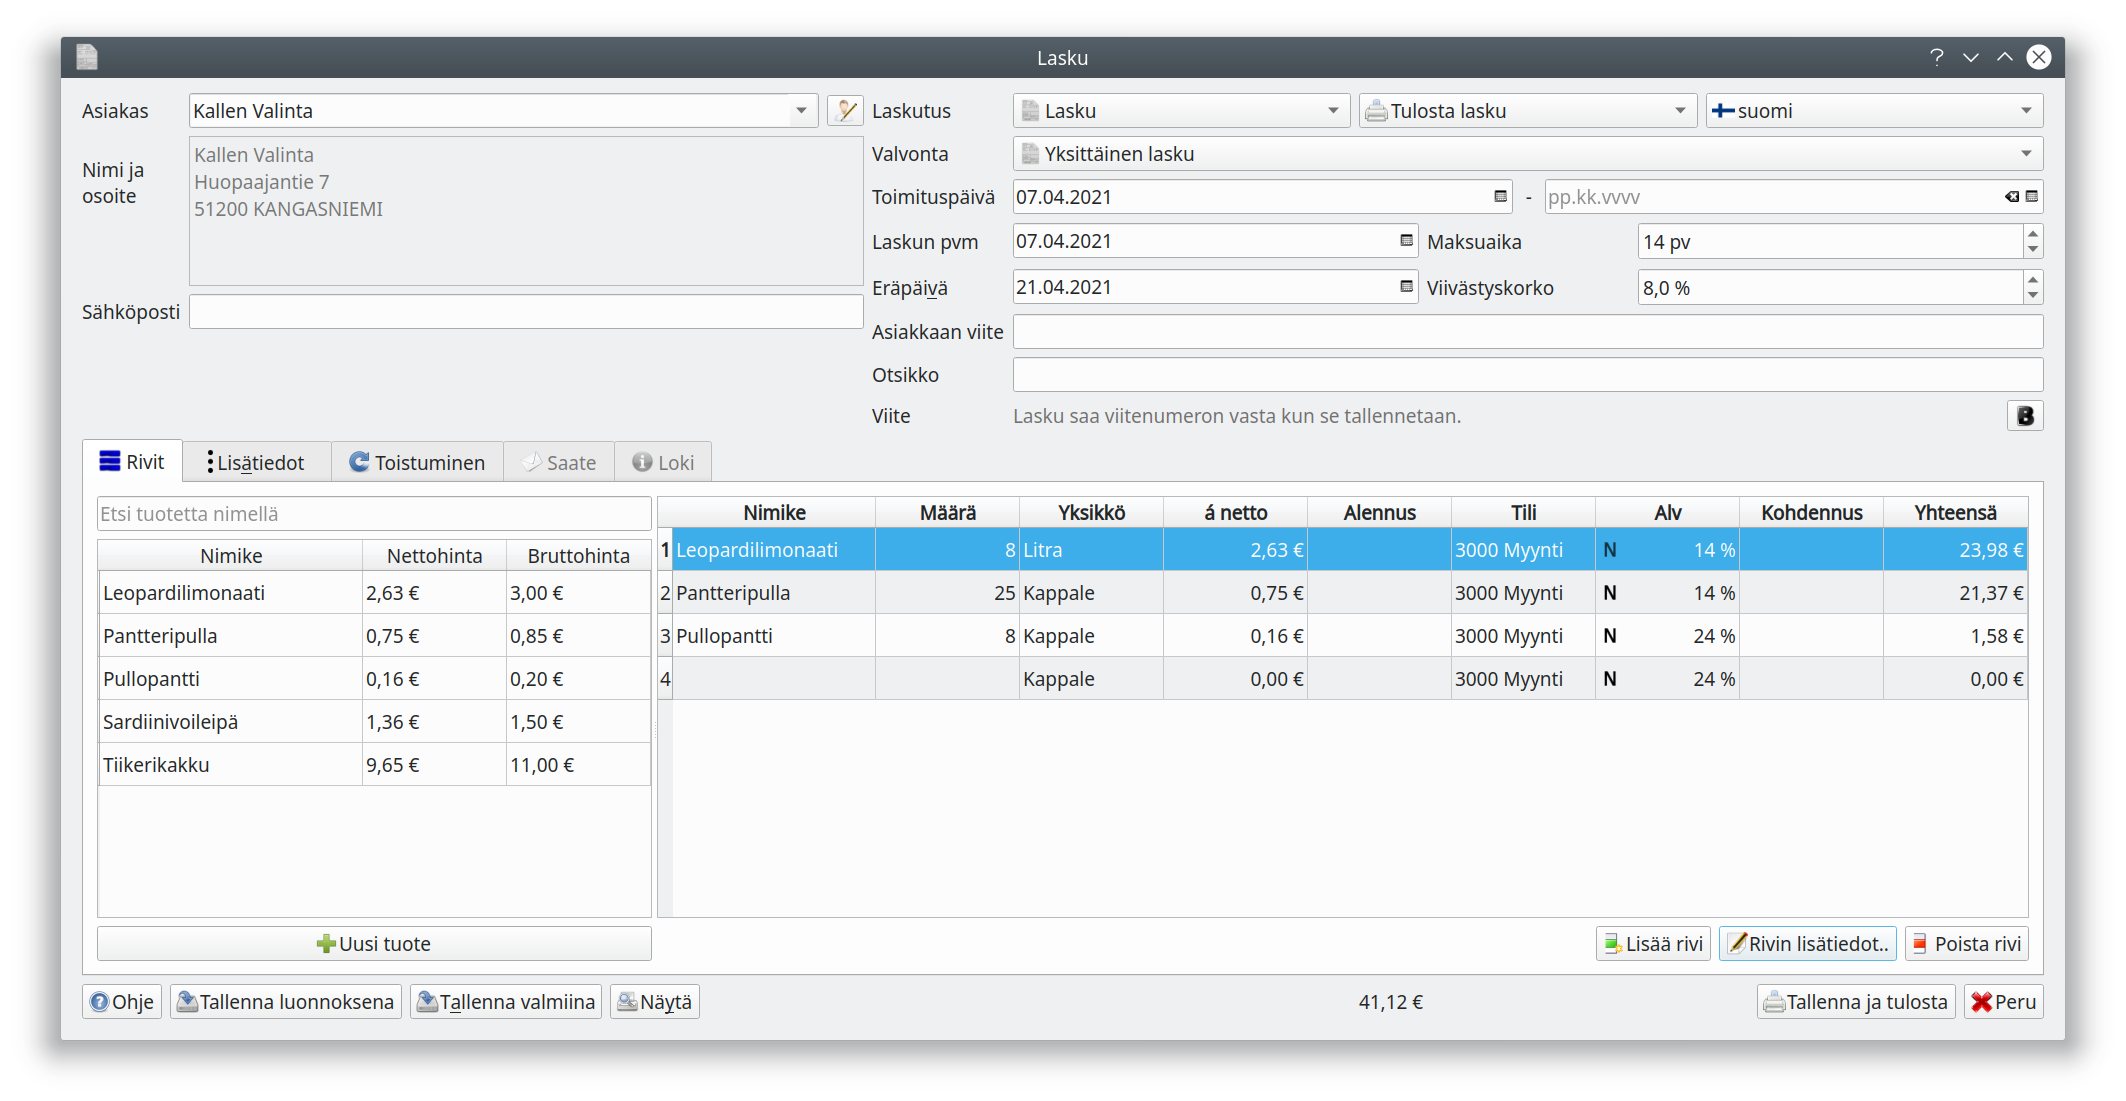
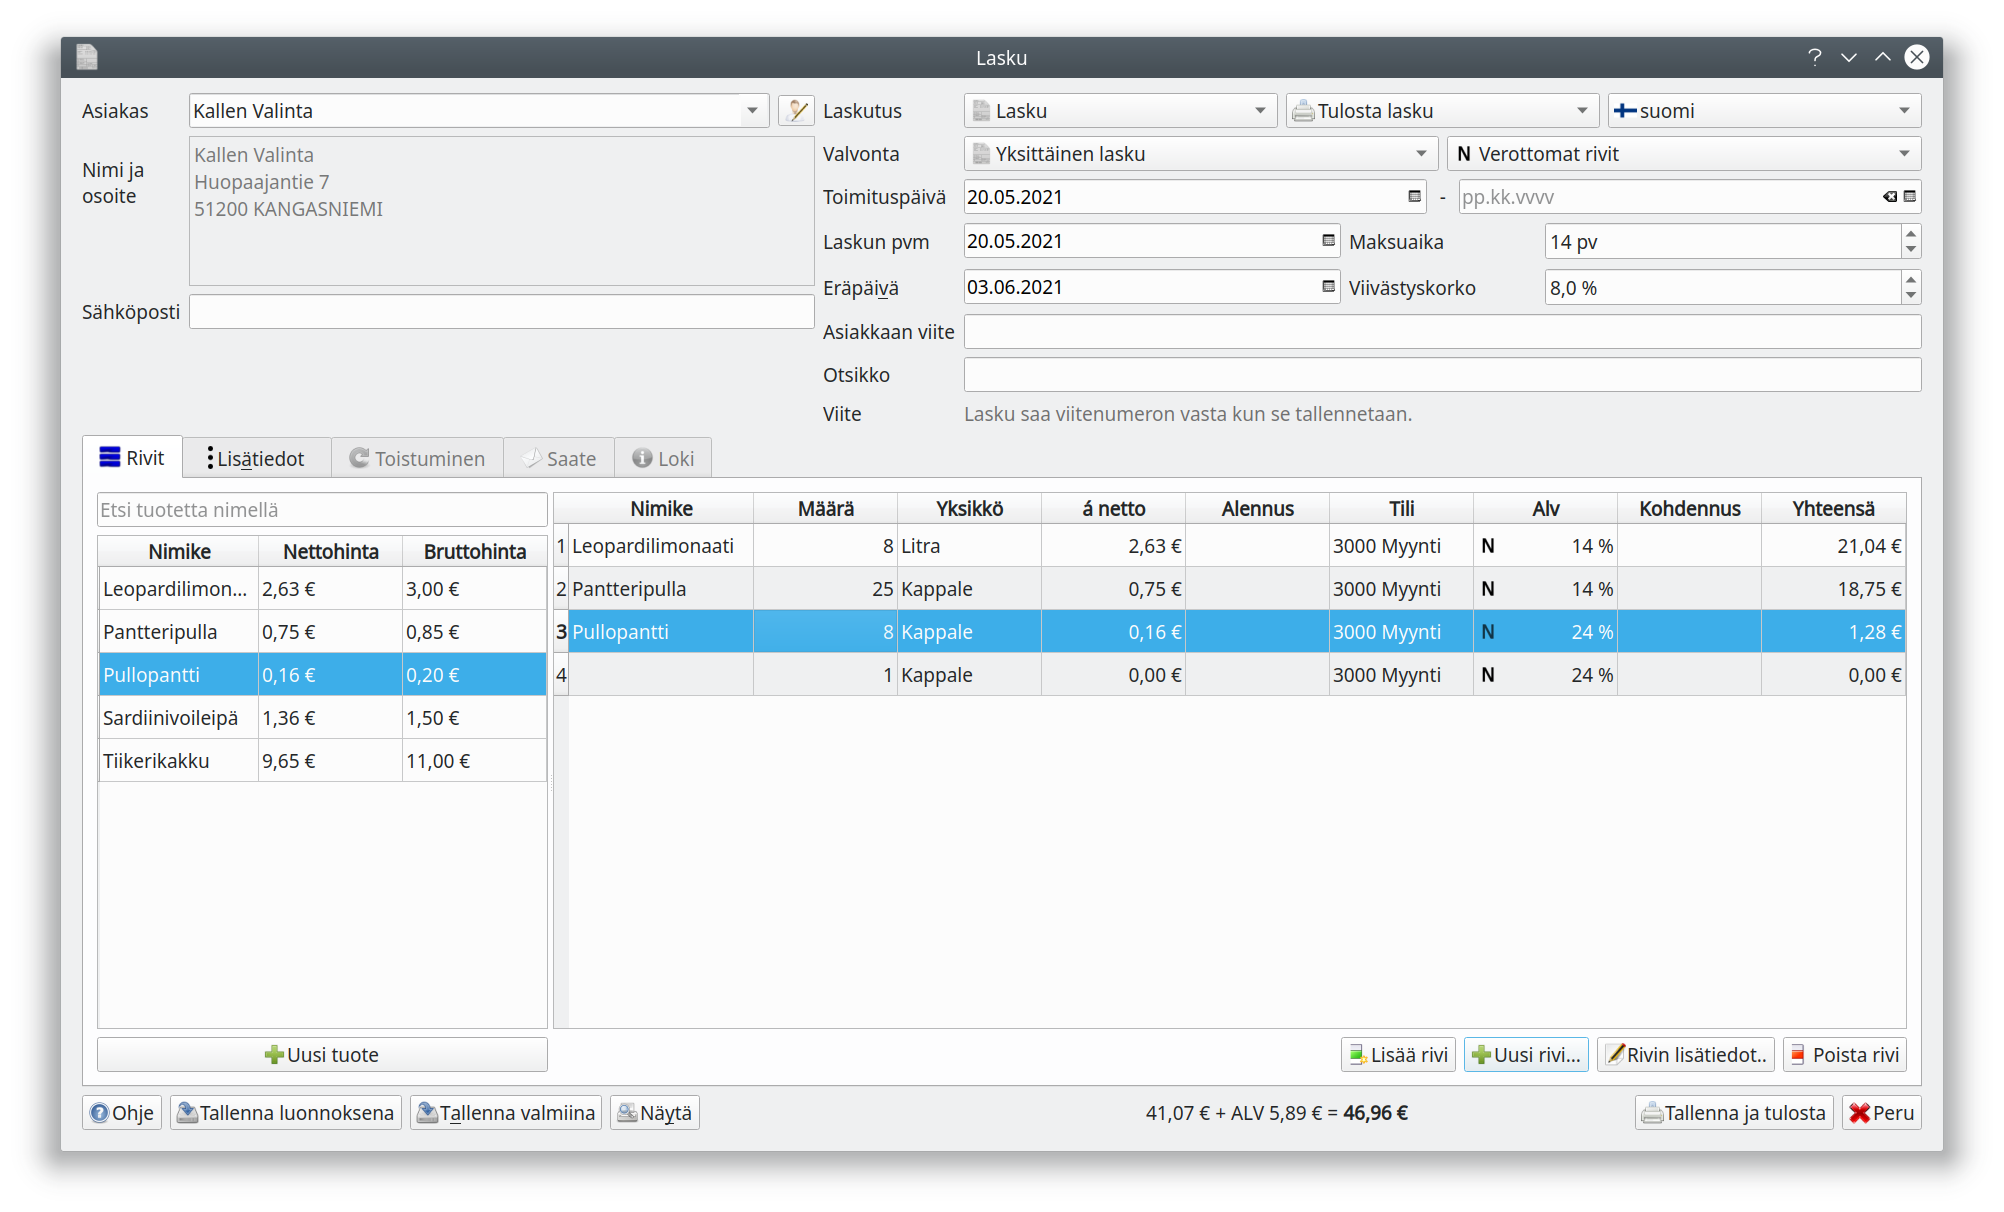
Ohjeiden tarkastaminen

diff --git a/layouts/blog/single.html b/layouts/blog/single.html
@@ -1,0 +1,3 @@
+{{ define "main" }}
+{{ .Render "content" }}
+{{ end }}

diff --git a/content/fi/docs/kirjaus/menotulo/yksityiskohdat.md b/content/fi/docs/kirjaus/menotulo/yksityiskohdat.md
@@ -4,6 +4,7 @@ linkTitle: "Yksityiskohtaiset ohjeet"
 weight: 90
 description: >
   Menojen ja tulokirjausten näkymän kentät yksityiskohtaisemmin selostettuina
+keywords: ["kohdennus", "jaksotus"]
 ---
 
 #### Asiakas / Toimittaja
@@ -29,7 +30,7 @@ Voit valita tilin kirjoittamalla tilin numeron (tai osan siitä). Vaihtoehtoises
 
 ![](/img/fi/kirjaus/menotulo/alv.png)
 
-Käytössä olevat alv-lajit on esitelty kappaleessa [Arvonlisäverolajit](../../alv/#arvonlisaverolajit)
+Käytössä olevat alv-lajit on esitelty kappaleessa [Arvonlisäverolajit]({{<relref "../../alv/alvlajit">}})
 Verollisessa kirjauksessa voit syöttää kokonaismäärän (brutto) tai verottoman määrän (netto).
 
 #### Jaksotus
@@ -40,7 +41,7 @@ Jaksotuksella voit tehdä kirjauksia, jotka kuuluu jaksottaa tilinpäätöksen y
 
 Jaksotustoiminnolla jaksotetaan vain veroton tulo tai meno, ei arvonlisäveron osuutta.
 
-!!! note "Esimerkkitilanteita, kun tilikausi on kalenterivuosi" - Jäsen maksaa vuoden 2020 jäsenmaksun 10.11.2019. - Yhdistykselle on myönnetty avustusta 1.11.2019 järjestettyyn tapahtumaan. Avustus maksetaan 7.1.2020. - Ohjelmistoyritys laskuttaa 15.9.2019 ohjelmiston ylläpitomaksun kaudelle 1.7.2019 - 30.6.2020. - Kirjausesimerkkejä jaksotuksesta [Tilinpäätös-osan jaksotusohjeessa](../../tilinpaatos/jaksotukset)
+!!! note "Esimerkkitilanteita, kun tilikausi on kalenterivuosi" - Jäsen maksaa vuoden 2020 jäsenmaksun 10.11.2019. - Yhdistykselle on myönnetty avustusta 1.11.2019 järjestettyyn tapahtumaan. Avustus maksetaan 7.1.2020. - Ohjelmistoyritys laskuttaa 15.9.2019 ohjelmiston ylläpitomaksun kaudelle 1.7.2019 - 30.6.2020. - Kirjausesimerkkejä jaksotuksesta [Tilinpäätös-osan jaksotusohjeessa]({{<relref "../../tilikaudet/tilinpaatos/jaksotukset">}})
 
 #### Kohdennukset
 

diff --git a/content/fi/docs/kirjaus/menotulo/menot.md b/content/fi/docs/kirjaus/menotulo/menot.md
@@ -1,5 +1,5 @@
 ---
-title: "Menokirjausten maksutavat"
+title: "Menojen kirjaaminen"
 linkTitle: "Menot"
 keywords: ["maksutavat"]
 weight: 10
@@ -7,6 +7,8 @@ keywords:
 description: >
   Maksutavalla määrittelet, miten meno on maksettu.
 ---
+
+![Menojen kirjausnäkymä](/img/fi/kirjaus/menotulo/menoosa.png)
 
 - **Meno**-tositetyypille kirjataan ostolaskut, suoritetut maksut, annetut avustukset jne.
 - **Kululaskuja** ovat työntekijän tai yhdistyksen jäsenen organisaation puolesta omista varoistaan suorittamat kulut, jotka hän sitten kululaskua ja tositteita vastaan perii maksettavaksi.
@@ -33,3 +35,7 @@ Maksutapavalinta määrittelee, mitä vastatiliä kirjauksessa käytetään. Ain
 | Hyvityslasku      | Aiemmasta laskusta kirjattava hyvitys. Valitse kohdassa **Tase-erä** aiemman laskut tiedot ja kirjaa hyvitys miinusmerkkisenä. |  Hyvityslaskun päivämäärä           |
 | Siirtovelka       | Käytetään, kun meno jää tilinpäätöksessä siirtovelkoihin.                                                                      | Toimituspäivä                       |
 | Kaikki vastatilit | Valitse vastatili ja tarvittaessa erä kaikkien tilien luettelosta.                                                             |
+
+#### Menotili
+
+Menotiliksi valitaan aiheenmukainen kirjanpitotili, esimerkiksi Ostot, Rahaliikenteen kulut tai Korkomenot.

diff --git a/content/fi/docs/kirjaus/menotulo/tulot.md b/content/fi/docs/kirjaus/menotulo/tulot.md
@@ -1,5 +1,5 @@
 ---
-title: "Tulokirjausten maksutavat"
+title: "Tulojen kirjaaminen"
 linkTitle: "Tulot"
 keywords: ["maksutavat"]
 weight: 20
@@ -7,6 +7,8 @@ keywords:
 description: >
   Maksutavalla määrittelet, miten saatte maksun tulosta.
 ---
+
+![Menojen kirjausnäkymä](/img/fi/kirjaus/menotulo/tuloosa.png)
 
 - **Tulo**-tositteella kirjataan myynnit, saadut avustukset, jäsenmaksut yms.
 - Jos laadit laskun Kitsaalla, kirjataan lasku automaattisesti kirjanpitoon ja siitä muodostuu **myyntilasku**.
@@ -31,3 +33,7 @@ Maksutapavalinta määrittelee, mitä vastatiliä kirjauksessa käytetään. Ain
 | Hyvityslasku      | Aiemmasta laskusta kirjattava hyvitys. Valitse kohdassa **Tase-erä** aiemman laskut tiedot ja kirjaa hyvitys miinusmerkkisenä. |  Hyvityslaskun päivämäärä           |
 | Siirtosaaminen    | Käytetään, kun tulo jää tilinpäätöksessä siirtovelkoihin.                                                                      | Toimituspäivä                       |
 | Kaikki vastatilit | Valitse vastatili ja tarvittaessa erä kaikkien tilien luettelosta.                                                             |
+
+#### Tulotili
+
+Tulotiliksi valitaan aiheenmukainen kirjanpitotili, esimerkiksi Myynti, Jäsenmaksutulot tai Saadut avustukset.

diff --git a/content/fi/docs/kirjaus/tuonti.md b/content/fi/docs/kirjaus/tuonti.md
@@ -6,7 +6,7 @@ description: >
   Voit tuoda ohjelmaan kirjauksia muista ohjelmista, jotka voivat tallentaa vientejä CSV-muotoon.
 ---
 
-CSV-tiedosto on tekstitiedosto, jossa eri tietokentät on eroteltu toisistaan pilkulla. Voit tuoda Kitsaan tällä toiminnolla esimerkiksi [Tilitin-kirjanpito-ohjelman](http://helineva.net/tilitin) kirjauksia tai verkkopankin tilitapahtumia. Kitsaan tai Kitupiikin kirjauksia voit tuoda csv-muotoisesta [Päiväkirja-raportista](/tulosteet#paivakirja).
+CSV-tiedosto on tekstitiedosto, jossa eri tietokentät on eroteltu toisistaan pilkulla. Voit tuoda Kitsaan tällä toiminnolla esimerkiksi [Tilitin-kirjanpito-ohjelman](http://helineva.net/tilitin) kirjauksia tai verkkopankin tilitapahtumia. Kitsaan tai Kitupiikin kirjauksia voit tuoda csv-muotoisesta [Päiväkirja-raportista]({{<relref "../raportit/paivakirja" >}}).
 
 Voit tuoda kirjanpitoon csv-tiedoston lisäämällä **.csv**-päätteisen tiedoston kirjaukseen (raahaamalla **Sähköinen tosite**-laatikkoon tai **Lisää tiedosto**-painikkeella). Saat ikkunan, jossa valitaan, mitä tietoja csv-tiedoston eri sarakkeista tuodaan.
 

diff --git a/content/fi/docs/laskutus/luominen/yksityiskohdat.md b/content/fi/docs/laskutus/luominen/yksityiskohdat.md
@@ -93,9 +93,18 @@ Laskutusjakso
 
 Otsikko tulostetaan laskulle, ja se toimii myös tositteen otsikkona kirjanpidossa.
 
-### Netto- tai bruttolaskenta
+### Arvonlisäveron merkitseminen
 
-![B](/img/fi/napit/brutto.png)-painikkeen ollessa valittuna laskulle merkitään verolliset rivisummat, muuten rivisummat ovat verottomia ja vero lisätään vasta verottoman välisumman jälkeen, mikä on tavanomainen käytäntö yritysten välisessä kaupassa. Oletuksena verolliset rivisummat näytetään kun asiakkaana on yksityishenkilö eli asiakkaalla ei ole Y-tunnusta.
+![](/img/fi/laskutus/luominen/verorivit.png)
+
+Verottomat rivit
+: Rivien summat ilmoitetaan verottomina, ja vero lisätään vasta kokonaissummaan. Yleinen laskentatapa yritysten välisessä laskutuksessa.
+
+Verolliset rivit
+: Rivien summat ilmoitetaan verollisina. Yleinen tapa laskutettaessa yksityishenkilöitä ja yhdistyksiä, jotka eivät vähennä arvonlisäveroa
+
+Pitkät rivit
+: Jokaiselle riville merkitään sekä veroton että verollinen rivisumma.
 
 ### Laskun rivit
 

diff --git a/content/fi/docs/alv/kirjaaminen/marginaali.md b/content/fi/docs/alv/kirjaaminen/marginaali.md
@@ -5,3 +5,16 @@ weight: 40
 description: >
   Käytettyjen tavaroiden sekä taide-, keräily- ja antiikkiesineiden myynnissä voidaan vero maksaa pelkästään myyntivoiton osuudesta.
 ---
+
+[Marginaaliverotusmenettelyssä](https://www.vero.fi/syventavat-vero-ohjeet/ohje-hakusivu/48682/k%C3%A4ytettyjen-tavaroiden-sek%C3%A4-taide--ker%C3%A4ily--ja-antiikkiesineiden-marginaaliverotusmenettely/) vero maksetaan ainoastaan voittomarginaalista. Kitsas tukee Verohallinnon ohjeessa kuvattua yksinkertaistettua menettelyä.
+
+![](/img/fi/alv/marginaaliosto.png)
+![](/img/fi/alv/marginaalimyynti.png)
+
+Kitupiikki laskee alv-ilmoitusta tehtäessä verokauden voittomarginaalin. Voittomarginaalilaskelma löytyy alv-erittelyn loppupuolelta.
+
+![](/img/fi/alv/marginaalilaskelma.png)
+
+Tavarakohtaisessa menettelyssä tulee tavaraa myytäessä kirjata tavaran ostohinta verottomaksi ja voittomarginaalin osuus verolliseksi (netto- tai bruttokirjaukseksi).
+
+![](/img/fi/alv/tavaramarginaali.png)

diff --git a/content/fi/docs/asetukset/veronmaksu.md b/content/fi/docs/asetukset/veronmaksu.md
@@ -1,6 +1,7 @@
 ---
 title: "Verojen maksu"
 linkTitle: "Verojen maksu"
+keywords: ["alvkirjaaminen"]
 weight: 170
 description: >
   Arvonlisäveron kirjaamiseen sekä verojen maksun automaattiseen tiliöimiseen liittyvät määritykset
@@ -10,4 +11,4 @@ description: >
 
 **Tuloverojen viite** on OmaVero-palvelusta näkyvä viitenumero, jolla yritys maksaa tuloverojaan (esim. ennakkoverot). Vastaavasti **Oma-aloittesten verojen viite** on viitenumero, jolla maksetaan esimerkiksi arvonlisäverot. Kitsas käyttää näitä viitenumeroita tiliotetietojen automaattiseen kohdistamiseen.
 
-**Kirjaa arvonlisäverojen palautus verosaatavien tilille** -valinnalla arvonlisäveroilmoitusta laadittaessa mahdollinen palautus kirjataan verosaatavien tilille. Ilman tätä valintaa palautukset kirjataan negatiivisena arvonlisäverovelkana.
+**Arvonlisäveron kirjauksen** vaihtoehdot on esitetty [Arvonlisäveron ohjeissa]({{<relref "../alv/ilmoitus/kirjanpidossa">}})

diff --git a/content/fi/docs/laskutus/myynnit/tyypit.md b/content/fi/docs/laskutus/myynnit/tyypit.md
@@ -23,7 +23,7 @@ description: >
 
 #### Muut tulot
 
-Myyntireskontrassa näytetään myös muut Kitsaalla kirjatut tulot, ellei ![](laskukuvake.png)-painikkeella erikseen valita, että ohjelma näyttää vain Kitsaalla laaditut laskut.
+Myyntireskontrassa näytetään myös muut Kitsaalla kirjatut tulot, ellei ![](/img/icons/laskukuvake.png)-painikkeella erikseen valita, että ohjelma näyttää vain Kitsaalla laaditut laskut.
 
 | Tunnus                      | Nimi       | Selitys                                                                  |
 | --------------------------- | ---------- | ------------------------------------------------------------------------ |

diff --git a/content/fi/docs/kirjaus/tiliote/tapahtumat.md b/content/fi/docs/kirjaus/tiliote/tapahtumat.md
@@ -4,6 +4,7 @@ linkTitle: "Tilitapahtumien lisääminen"
 weight: 40
 description: >
   Kirjaa tilitapahtumia joko kirjaustoiminnolla tai suoraan ruudukkoon kirjoittamalla. Tilitapahtumat voivat olla laskujen maksuja, tuloja, menoja, siirtoja tai hyvityksiä.
+keywords: ["laskunmaksu"]
 ---
 
 **Kirjaa tilitapahtumia**-painikkeella pääset tilitapahtumien kirjausikkunaan. Voit kirjata peräkkäin useampia tilitapahtumia painamalla jokaisen tapahtuman jälkeen **Kirjaa**-nappia. **Sulje** lopuksi kirjausikkuna, tarkasta tiliotteen kirjaukset ja tallenna tiliote.

diff --git a/content/fi/docs/laskutus/myynnit/_index.md b/content/fi/docs/laskutus/myynnit/_index.md
@@ -6,7 +6,7 @@ description: >
   Myyntireskontrassa voit tarkastella myyntilaskujen tilannetta, luoda uusia laskuja sekä hyvityslaskuja ja maksumuistutuksia
 ---
 
-![Myyntilaskujen näkymä](myynti.png)
+![Myyntilaskujen näkymä](/img/fi/laskutus/myynti.png)
 
 - **Luonnokset**-välilehdeltä löydät laskut, joiden laatiminen on vielä kesken
 - **Lähetettävät**-välilehdellä on laskut, jotka ovat valmiina lähetettäviksi. Ne on vielä lähetettävä valitsemalla lähetettävät laskut ja painamalla **Lähetä**.

diff --git a/content/fi/docs/kirjaus/siirto/esimerkit.md b/content/fi/docs/kirjaus/siirto/esimerkit.md
@@ -40,4 +40,4 @@ Otetaan pankista uusi laina, joka nostetaan pankkitilille.
 
 ![Lainan lyhentäminen](/img/fi/kirjaus/siirto/lainanlyhennys.png)
 
-Lyhennetään äsken otettua lainaa. Huomaa, että lyhennys kohdistetaan kyseiselle tase-erälle. Korkon maksaminen kirjataan erikseen menoksi.
+Lyhennetään äsken otettua lainaa. Huomaa, että lyhennys kohdistetaan kyseiselle tase-erälle. Koron maksaminen kirjataan erikseen menoksi.
